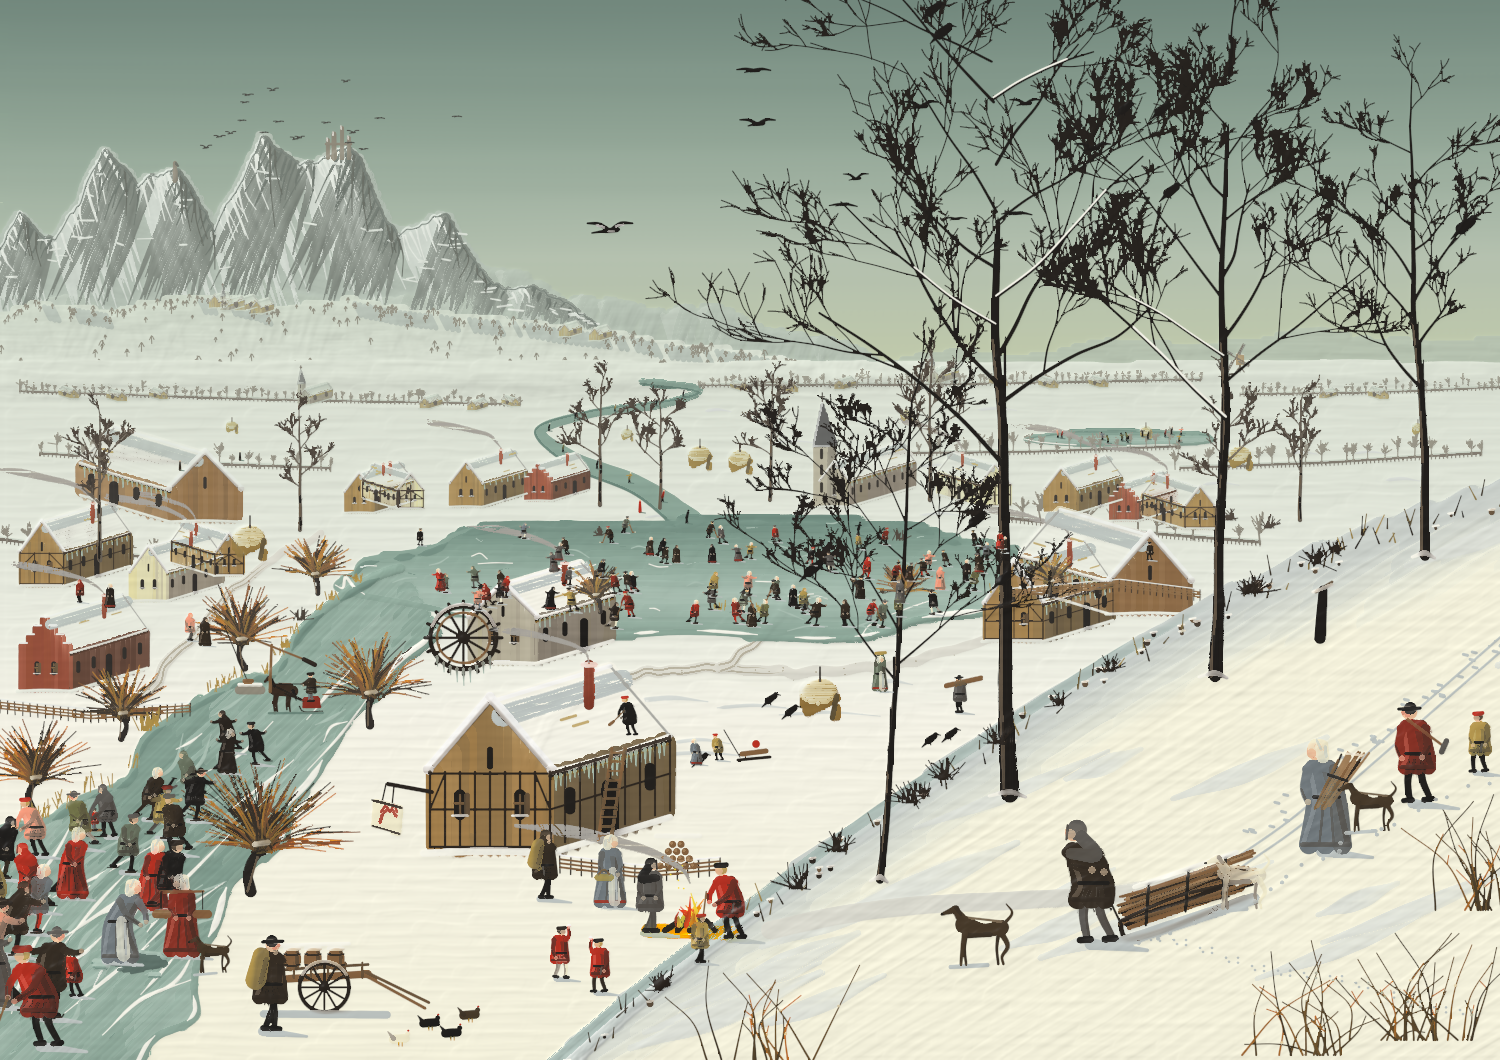
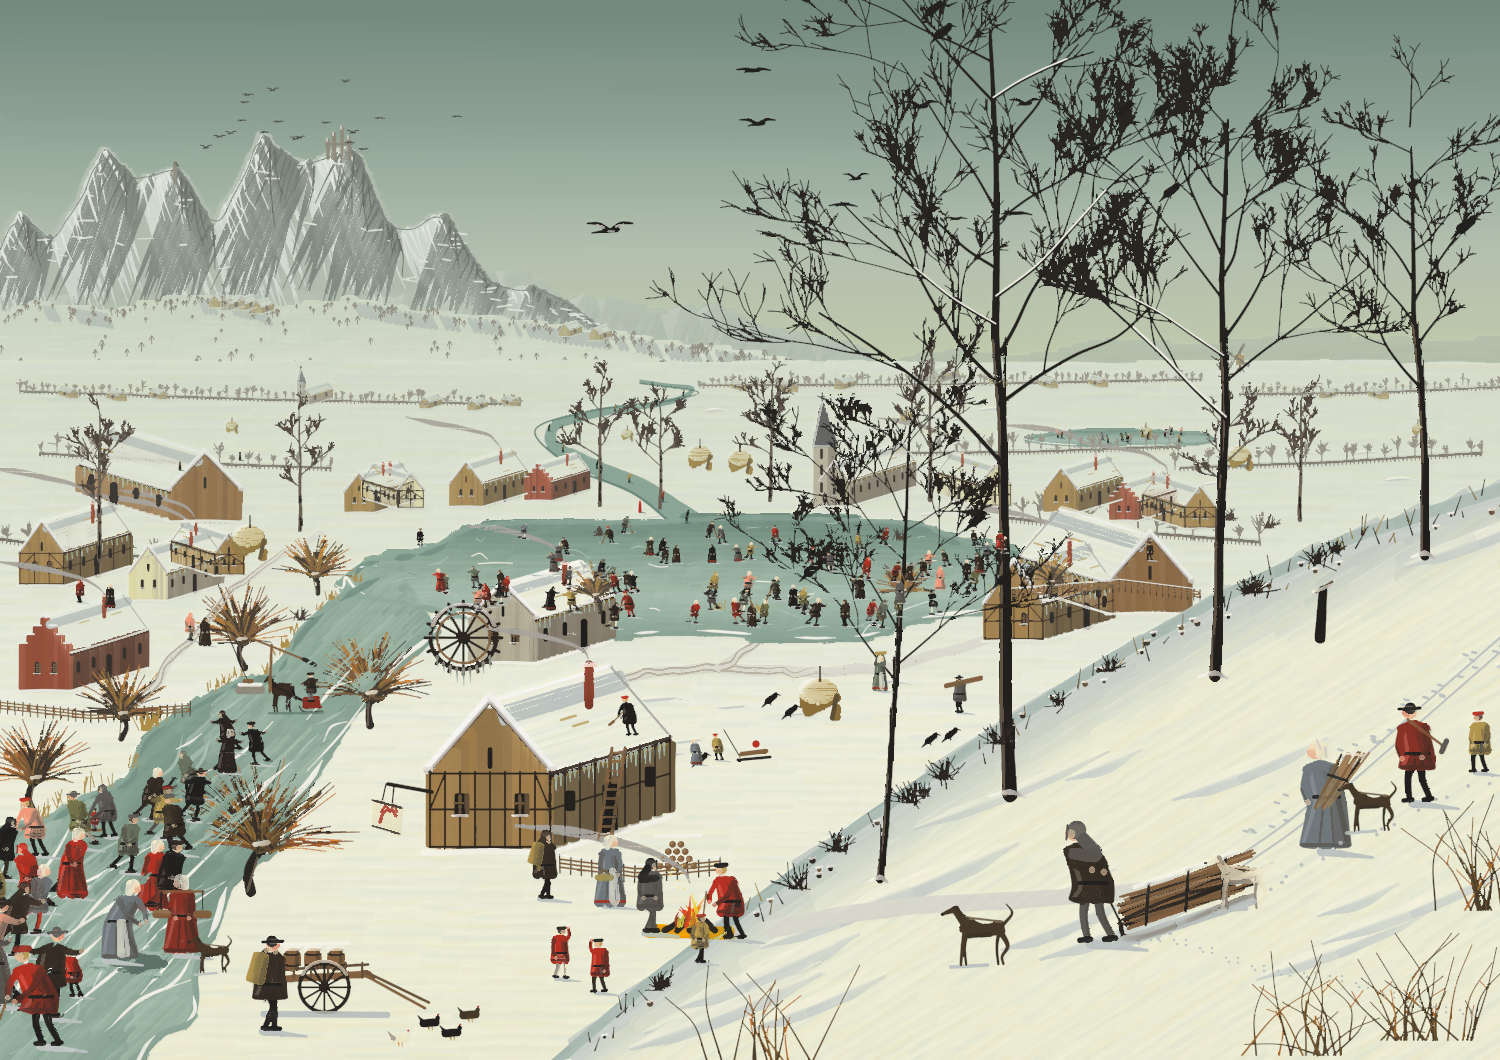
Bruegel: paint it the way a panel painter would, with the new API
- Support: an oak panel with a sized chalk ground and a faint warm
  imprimatura (GESSO_PANEL, low absorbency) instead of generic canvas.
- Brushes chosen per mark: a fine sable for drawing and twigs, sable
  rounds for small forms, a soft sable filbert for areas, a squirrel
  flat for the broadest passages (previously one default round).
- Realistic loading: the brush holds what it can; long strokes are
  painted in several loads (previously one load for the whole path,
  which now produced impasto globs).
- Thin, smooth paint as Bruegel used: colours let down to body 0.45,
  lead white 0.6; rendered with low relief (0.3) like a varnished panel.
- Broken colour: areas are filled with the paint picked up together
  with a warmer and a cooler variant, only partly mixed.
- Snow drifts and mounds modelled in one stroke each with a
  double-loaded brush (light above, cool shadow below).

Claude-Session: https://claude.ai/code/session_01EHReofpAhaQxxUm8vHfAMo

diff --git a/examples/bruegel_winter.py b/examples/bruegel_winter.py
@@ -19,7 +19,7 @@ import numpy as np
 
 sys.path.insert(0, os.path.join(os.path.dirname(__file__), ".."))
 
-from oilpaint import Brush, Canvas, Paint, brushes, palette as P  # noqa: E402
+from oilpaint import Brush, Canvas, Paint, brushes, palette as P, surfaces  # noqa: E402
 
 W, H = 1500, 1060
 rng = np.random.default_rng(1565)
@@ -32,9 +32,16 @@ def pick(seq):
 # ===========================================================================
 # Palette: lead white, bone black, the earths, a copper green, some vermilion
 # ===========================================================================
-WHITE, BLACK = P.TITANIUM_WHITE, P.IVORY_BLACK
-RAW_UMBER, BURNT_UMBER, OCHRE, SIENNA = P.RAW_UMBER, P.BURNT_UMBER, P.YELLOW_OCHRE, P.BURNT_SIENNA
-GREEN, BLUE, RED, MEDIUM = P.VIRIDIAN, P.ULTRAMARINE_BLUE, P.CADMIUM_RED, P.MEDIUM
+# Bruegel painted thinly and smoothly on panel: the colours are ground in oil
+# and let down with a little medium, so they flow out flat; lead white has a
+# little more body (the lights on snow), but nothing stands up as impasto.
+# Mixes average the body.
+THIN = 0.45
+WHITE, BLACK = P.TITANIUM_WHITE.with_body(0.6), P.IVORY_BLACK.with_body(THIN)
+RAW_UMBER, BURNT_UMBER = P.RAW_UMBER.with_body(THIN), P.BURNT_UMBER.with_body(THIN)
+OCHRE, SIENNA = P.YELLOW_OCHRE.with_body(THIN), P.BURNT_SIENNA.with_body(THIN)
+GREEN, BLUE, RED = P.VIRIDIAN.with_body(THIN), P.ULTRAMARINE_BLUE.with_body(THIN), P.CADMIUM_RED.with_body(THIN)
+MEDIUM = P.MEDIUM
 
 
 def mix(*parts):
@@ -103,8 +110,30 @@ EARTH = mix((RAW_UMBER, 1), (BURNT_UMBER, 0.5), (WHITE, 0.25))
 # ===========================================================================
 # Low-level helpers. Everything ends up as canvas.stroke(...)
 # ===========================================================================
-canvas = Canvas(W, H, ground="#efe8d8", texture=0.25, weave=2.5, seed=1565)
+# An oak panel with a chalk ground, sized and primed (so it barely drinks the
+# oil) and a thin warm imprimatura; the grain of the wood and the brushmarks of
+# the priming show faintly under thin paint.
+PANEL = surfaces.GESSO_PANEL.with_(absorbency=0.15, relief=0.3, priming_marks=0.35, ground="#efe8d8",
+                                   toning="#c9a66b", toning_strength=0.12, name="primed oak panel")
+canvas = Canvas(W, H, surface=PANEL, seed=1565)
 N_STROKES = [0]
+
+# The brushes: soft hair throughout (sable, squirrel), as a panel painter used.
+DETAIL = brushes.make("round", 2, "sable", length=0.75, spread=0.2, name="detail sable")    # drawing, twigs
+ROUND = brushes.make("round", 8, "sable", length=0.6, spread=0.3, name="round sable")        # small forms
+FILBERT = brushes.make("filbert", 24, "sable", length=0.6, spread=0.12, name="filbert sable")  # areas
+BROAD = brushes.make("flat", 50, "squirrel", length=0.8, softness=0.15, spread=0.05, name="broad")
+
+
+def tool_for(width):
+    """The brush a painter would pick for a mark this wide."""
+    return DETAIL if width < 3 else ROUND if width < 11 else FILBERT if width < 40 else BROAD
+
+
+# Paint the hair holds, in brush widths (smaller brushes hold more for their
+# size). A longer stroke is painted in several loads.
+HOLD = 8.0
+pr = np.random.default_rng(15652)       # for seeds of the paint on the brush
 
 
 def length(pts):
@@ -112,17 +141,60 @@ def length(pts):
     return float(np.linalg.norm(np.diff(pts, axis=0), axis=1).sum()) if len(pts) > 1 else 0.0
 
 
-def st(pts, paint, width, amount=None, pressure=0.35, **kw):
-    """One stroke; by default the brush holds enough paint for the whole path."""
+def st(pts, paint, width, amount=None, pressure=0.35, tool=None, broken=0.0, **kw):
+    """One stroke with a brush suited to its width. The brush is loaded with as
+    much paint as it holds; a long stroke is painted in several loads, each
+    picking up where the last one ran thin. With ``broken`` > 0 the brush
+    picks up the paint together with a warmer and a cooler variant of it,
+    only partly mixed: broken colour, as in real paint."""
     pts = [tuple(map(float, p)) for p in pts]
     w = float(np.mean(width)) if np.ndim(width) else float(width)
-    if amount is None:
-        amount = 2.5 + 1.25 * length(pts) / max(w, 1.0)
+    if paint is None or "brush" in kw:       # blending passes, or an explicitly loaded brush
+        N_STROKES[0] += 1
+        return canvas.stroke(pts, paint=paint, amount=amount or 0, width=width, pressure=pressure, **kw)
+    tool = tool or tool_for(w)
+    L = length(pts)
+    need = amount if amount is not None else 2.5 + 1.25 * L / max(w, 1.0)
+    cap = HOLD * max(1.0, 20.0 / max(w, 0.5)) ** 1.5
+    loads = 1 if (amount is not None or need <= cap or len(pts) < 2) else int(np.ceil(need / cap))
+    if loads == 1:
+        return _one(pts, paint, width, need, pressure, tool, broken, kw)
+    # several loads: split the path by arc length, overlapping a little
+    P_ = np.asarray(pts)
+    d = np.concatenate([[0.0], np.cumsum(np.linalg.norm(np.diff(P_, axis=0), axis=1))])
+    def along(profile):     # a width/pressure profile as (arc positions, values), as the engine reads it
+        if not np.ndim(profile):
+            return None
+        v = np.asarray(profile, float)
+        return (d if v.size == len(pts) else np.linspace(0.0, d[-1], v.size)), v
+    widths, press = along(width), along(pressure)
+    taper = kw.pop("taper", 0.0)
+    t0, t1 = (taper, taper) if np.isscalar(taper) else taper
+    for k in range(loads):
+        a = max(0.0, d[-1] * k / loads - 0.6 * w)
+        b = min(d[-1], d[-1] * (k + 1) / loads)
+        n = max(2, int((b - a) / 30) + 2)
+        t = np.linspace(a, b, n)
+        sub = list(zip(np.interp(t, d, P_[:, 0]), np.interp(t, d, P_[:, 1])))
+        wk = list(np.interp(t, *widths)) if widths is not None else width
+        pk = list(np.interp(t, *press)) if press is not None else pressure
+        tk = (t0 * loads if k == 0 else 0.0, t1 * loads if k == loads - 1 else 0.0)
+        _one(sub, paint, wk, need / loads + 1.0, pk, tool, broken, dict(kw, taper=tuple(min(x, 0.5) for x in tk)))
+
+
+def _one(pts, paint, width, amount, pressure, tool, broken, kw):
     N_STROKES[0] += 1
-    return canvas.stroke(pts, paint=paint, amount=amount, width=width, pressure=pressure, **kw)
+    if broken > 0 and isinstance(paint, Paint):
+        warm = mix((paint, 1), (OCHRE, 0.03 * broken), (SIENNA, 0.008 * broken))
+        cool = mix((paint, 1), (GREEN, 0.025 * broken), (BLUE, 0.01 * broken), (BLACK, 0.004 * broken))
+        brush = Brush(tool).load_mix([(paint, 3), (warm, 1), (cool, 1)], amount, mixing=0.45,
+                                     seed=int(pr.integers(1 << 31)))
+        return canvas.stroke(pts, width=width, pressure=pressure, brush=brush, **kw)
+    return canvas.stroke(pts, paint=paint, amount=amount, width=width, pressure=pressure, brush=tool, **kw)
 
 
 def dab(x, y, paint, size, **kw):
+    kw.setdefault("tool", DETAIL if size < 3 else ROUND)
     st([(x, y), (x + 0.01, y)], paint, size, **kw)
 
 
@@ -141,7 +213,7 @@ def inside(poly, x, y):
 
 
 def fill(poly, paint_at, width, spacing, angle=0.0, seg_len=(120, 220), wobble=2.0, overrun=0.3,
-         pressure=0.4, **kw):
+         pressure=0.4, broken=1.6, **kw):
     """Cover a polygon with roughly parallel strokes at `angle` (radians).
     `paint_at` is a Paint or a function (x, y) -> Paint."""
     get = paint_at if callable(paint_at) else (lambda x, y: paint_at)
@@ -166,7 +238,8 @@ def fill(poly, paint_at, width, spacing, angle=0.0, seg_len=(120, 220), wobble=2
                     yy = yl + rng.normal(0, wobble, n)
                     world = np.stack([xx, yy], -1) @ rot
                     mid = world[len(world) // 2]
-                    st(world, get(*mid), width * rng.uniform(0.9, 1.1), pressure=pressure, **kw)
+                    st(world, get(*mid), width * rng.uniform(0.9, 1.1), pressure=pressure,
+                       broken=broken if width >= 4 else 0.0, **kw)
                 x += ln * rng.uniform(0.55, 0.8)
 
 
@@ -508,8 +581,11 @@ def paint_terrain():
         x, y = rng.uniform(600, 1450), rng.uniform(HORIZON + 30, 760)
         sc = 0.3 + 0.7 * (1 - depth_at(y))
         ln = rng.uniform(60, 160) * sc
-        st([(x, y), (x + ln * 0.5, y - 4 * sc), (x + ln, y + 2 * sc)], mix((SNOW, 2), (SNOW_SHADOW, 1)),
-           rng.uniform(4, 9) * sc, pressure=0.3, mixing=0.6, taper=(0.1, 0.6))
+        # one stroke models the mound: the brush carries snow on its upper side
+        # (its left, moving right) and the cool shadow on its lower side
+        st([(x, y), (x + ln * 0.5, y - 4 * sc), (x + ln, y + 2 * sc)],
+           [(SNOW_WARM, 3, "left"), (mix((SNOW, 1), (SNOW_SHADOW, 2)), 3, "right")],
+           rng.uniform(5, 11) * sc, pressure=0.3, mixing=0.4, taper=(0.1, 0.6))
     # trodden paths: a trampled band with cart ruts and footprints
     trodden = mix((SNOW, 4), (SNOW_SHADOW, 1), (EARTH, 0.2))
     rut = mix((EARTH, 1), (SNOW_SHADOW, 3))
@@ -1592,8 +1668,9 @@ def paint_hill():
         x = rng.uniform(600, W)
         y = rng.uniform(hill_edge_y(x) + 30, H)
         ln = rng.uniform(60, 200)
-        st([(x, y), (x + ln * 0.5, y - ln * 0.18), (x + ln, y - ln * 0.4)], mix((SNOW, 3), (SNOW_SHADOW, 1)),
-           rng.uniform(10, 24), pressure=0.3, mixing=0.7, taper=0.45)
+        st([(x, y), (x + ln * 0.5, y - ln * 0.18), (x + ln, y - ln * 0.4)],
+           [(SNOW_WARM, 4, "left"), (mix((SNOW, 1), (SNOW_SHADOW, 2)), 4, "right")],
+           rng.uniform(10, 24), pressure=0.3, mixing=0.4, taper=0.45)
     canvas.dry()
     for _ in range(120):    # dry grasses, brambles and stones poking through along the lip
         x = rng.uniform(560, W)
@@ -1852,7 +1929,7 @@ def main(out):
     for name in STAGES:
         globals()[name]()
     stage("varnish")
-    canvas.save(out, relief=0.55, gloss=0.5)
+    canvas.save(out, relief=0.3, gloss=0.5)       # a smooth, varnished panel
     print(f"wrote {out}: {N_STROKES[0]} strokes in {time.time() - t0:.0f}s")
 
 
